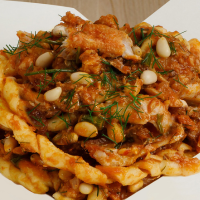
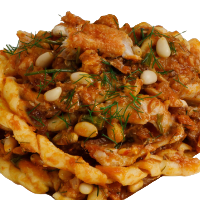
menu structure completed

diff --git a/components/Menu.jsx b/components/Menu.jsx
@@ -2,18 +2,14 @@
 
 import Image from "next/image";
 import { useState } from "react";
-import { Playwrite_AU_QLD, Permanent_Marker, Bebas_Neue } from "next/font/google";
+import { Permanent_Marker, Bebas_Neue } from "next/font/google";
+import MenuCard from "./MenuCard";
 
 const permanentMarker = Permanent_Marker({
     subsets: ["latin"],
     weight: "400"
 });
-
-const playwrite = Playwrite_AU_QLD({
-    subsets: ["latin"]
-});
-
-
+``
 const bebasNeue = Bebas_Neue({
     weight: "400",
     subsets: ['latin']
@@ -29,39 +25,41 @@ function Menu() {
     ];
 
     const formatoPastaData = [
-        { name: "Busiate", imgPath: "/fresche-busiate.jpg" },
-        { name: "Strozzapreti", imgPath: "/fresche-strozzapreti.jpg" },
-        { name: "Linguine", imgPath: "/fresche-linguine.jpg" },
-        { name: "Spaghetti Grossi", imgPath: "/fresche-spaghetti.jpg" },
+        { name: "Busiate", imgPath: "/fresche-busiate.png" },
+        { name: "Strozzapreti", imgPath: "/fresche-strozzapreti.png" },
+        { name: "Linguine", imgPath: "/fresche-linguine.png" },
+        { name: "Spaghetti Grossi", imgPath: "/fresche-spaghetti.png" },
     ]
 
     const condimentiData = [
-        { name: "Norma", ingridients: "Passata di pomodoro, Melenzane Fritte, Ricotta Salata, Basilico", price: 12, imgPath: "/norma.jpg" },
-        { name: "Trapanese", ingridients: "Passata di pomodoro, Melenzane Fritte, Ricotta Salata, Basilico", price: 10, imgPath: "/trapanese.jpg" },
-        { name: "Bronte Mare", ingridients: "Passata di pomodoro, Melenzane Fritte, Ricotta Salata, Basilico", price: 15, imgPath: "/bronte-mare.jpg" },
-        { name: "Palermitana", ingridients: "Passata di pomodoro, Melenzane Fritte, Ricotta Salata, Basilico", price: 10, imgPath: "palermitana.jpg" },
-        { name: "Nebrodi", ingridients: "Passata di pomodoro, Melenzane Fritte, Ricotta Salata, Basilico", price: 18, imgPath: "/nebrodi.jpg" },
-        { name: "Cacchio", ingridients: "Passata di pomodoro, Melenzane Fritte, Ricotta Salata, Basilico", price: 16, imgPath: "/cacchio.jpg" },
+        { name: "Norma", description: "Passata di pomodoro, Melenzane Fritte, Ricotta Salata, Basilico", price: 12, imgPath: "/norma.png" },
+        { name: "Trapanese", description: "Passata di pomodoro, Melenzane Fritte, Ricotta Salata, Basilico", price: 10, imgPath: "/trapanese.png" },
+        { name: "Bronte Mare", description: "Passata di pomodoro, Melenzane Fritte, Ricotta Salata, Basilico", price: 15, imgPath: "/bronte-mare.png" },
+        { name: "Palermitana", description: "Passata di pomodoro, Melenzane Fritte, Ricotta Salata, Basilico", price: 10, imgPath: "/palermitana.png" },
+        { name: "Nebrodi", description: "Passata di pomodoro, Melenzane Fritte, Ricotta Salata, Basilico", price: 18, imgPath: "/nebrodi.png" },
+        { name: "Cacchio", description: "Passata di pomodoro, Melenzane Fritte, Ricotta Salata, Basilico", price: 16, imgPath: "/cacchio.png" },
 
     ]
 
     const extraData = [
-        { name: "Mandorle Tostate", price: 0.70, imgPath: "/mandorle-tostate.jpg" },
-        { name: "Granella di Pistacchio", price: 0.90, imgPath: "/pistacchio.jpg" },
-        { name: "Melenzane Fritte", price: 0.70, imgPath: "/melenzane.jpg" },
-        { name: "Guanciale Croccante", price: 1.20, imgPath: "/guanciale.jpg" },
-        { name: "Burrata", price: 1.50, imgPath: "/burrata.jpg" },
-        { name: "Olio Al Tartufo", price: 1.20, imgPath: "/olio-tartufo.jpg" }
+        { name: "Mandorle Tostate", price: 0.70, imgPath: "/mandorle-tostate.png" },
+        { name: "Granella di Pistacchio", price: 0.90, imgPath: "/pistacchio.png" },
+        { name: "Melenzane Fritte", price: 0.70, imgPath: "/melenzane.png" },
+        { name: "Guanciale Croccante", price: 1.20, imgPath: "/guanciale.png" },
+        { name: "Burrata", price: 1.50, imgPath: "/burrata.png" },
+        { name: "Olio Al Tartufo", price: 1.20, imgPath: "/olio-tartufo.png" }
     ];
 
 
     const [isTipoPastaSelected, setIsTipoPastaSelected] = useState(null);
-    const [isFormatoPastaSelected, setIsFormatoPastaSelected] = useState(false);
-    const [isCondimentoPastaSelected, setIsCondimentoPastaSelected] = useState(false);
+    const [isFormatoPastaSelected, setIsFormatoPastaSelected] = useState(null);
+    const [isCondimentoPastaSelected, setIsCondimentoPastaSelected] = useState(null);
+    const [isExtraSelected, setIsExtraSelected] = useState(null);
+    const [totalCost, setTotalCost] = useState(0);
 
 
     return (
-        <div className="flex flex-col w-full max-w-full justify-center items-center text-black text-lg bg-[#FAF9F6]">
+        <div className="flex flex-col w-full max-w-full justify-center items-center text-black text-lg bg-white">
             <div className="hidden lg:flex flex-col relative w-full overflow-hidden text-white min-h-screen justify-center items-center shadow-2xl">
                 <Image
                     src={"/busiate.jpg"}
@@ -77,68 +75,50 @@ function Menu() {
             </div>
             <div className="flex flex-col text-center text-2xl w-full max-w-full items-center justify-center bg-transparent my-10 mx-auto border-0 rounded-4xl gap-10 pt-6 lg:pt-8 pb-20">
                 <h1 className={`${permanentMarker.className} uppercase text-7xl py-10 text-shadow-md`}>Componi la tua pasta</h1>
-                <h1 className="uppercase text-3xl">Scegli il tipo</h1>
-                <div className="flex flex-wrap items-center justify-evenly w-full max-w-full px-6">
-                    {tipoPastaData.map((tipoPasta, tipoPastaIndex) => {
-                        const isSelected = tipoPastaIndex === isTipoPastaSelected;
-                        return (
-                            <div key={tipoPastaIndex} className={`${isSelected ? "bg-white" : ""} cursor-pointer flex flex-col justify-center items-center gap-10 relative w-full max-w-[25%] h-full max-h-full active:opacity-80 transition-all duration-300 border-0 rounded-4xl shadow-2xs px-2 py-4`} onClick={() => {
-                                setIsTipoPastaSelected(prev => (prev === tipoPastaIndex ? null : tipoPastaIndex));
-                            }}>
-                                <h2 className="mb-2">{tipoPasta.name}</h2>
-                                {isSelected && (
-                                    <span className="absolute top-2 right-2 z-4 text-3xl">
-                                        <i className="fa-regular fa-circle-check" />
-                                    </span>
-                                )}
-                                <div className="relative flex items-center justify-center w-full h-fit max-h-fit flex-1">
-                                    <Image
-                                        src="/piatti/piatto5.png"
-                                        width={200}
-                                        height={200}
-                                        alt="piatto"
-                                        className="absolute z-2 inset-0 m-auto"
-                                    />
-                                    <Image
-                                        src={tipoPasta.imgPath}
-                                        width={150}
-                                        height={150}
-                                        alt={tipoPasta.name}
-                                        className="relative z-3 border-0 rounded-full"
-                                    />
-                                </div>
-                                <p className="mt-2">{tipoPasta.description} (+{(tipoPasta.price === 0 ? tipoPasta.price : (tipoPasta.price).toFixed(2))}€)</p>
-                            </div>
-                        )
-                    })}
-                </div>
-                <h1 className="uppercase text-3xl mt-20">Scegli il formato della tua pasta</h1>
-                <div className="flex flex-wrap items-center justify-evenly w-full max-w-full px-6 gap-4">
-                    {formatoPastaData.map((formato, formatoIndex) => {
-                        const isSelected = formatoIndex === isFormatoPastaSelected;
-                        return (
-                            <div key={formatoIndex} className={`${isSelected ? "bg-white" : ""} cursor-pointer flex flex-col justify-center items-center gap-4 relative w-full max-w-[25%] h-full max-h-full active:opacity-80 transition-all duration-300 py-15 border-0 rounded-4xl shadow-2xs`} onClick={() => {
-                                setIsFormatoPastaSelected(prev => (prev === formatoIndex ? null : formatoIndex));
-                            }}>
-                                <h2>{formato.name}</h2>
-                                {isSelected && (
-                                    <span className="absolute top-2 right-2 z-1 text-3xl">
-                                        <i className="fa-regular fa-circle-check" />
-                                    </span>
-                                )}
-                                <div className="w-[150px] h-[150px] relative">
-                                    <Image
-                                        src={formato.imgPath}
-                                        width={150}
-                                        height={150}
-                                        alt={formato.name}
-                                        className="border-0 rounded-full"
-                                    />
-                                </div>
-                            </div>
-                        )
-                    })}
-                </div>
+                <MenuCard
+                    title={"Scegli il tipo"}
+                    state={isTipoPastaSelected}
+                    setState={setIsTipoPastaSelected}
+                    data={tipoPastaData}
+                    widthImg1={200}
+                    heightImg1={200}
+                    widthImg2={180}
+                    heightImg2={180}
+                    imgPiatto={"piatto5"}
+                />
+                <MenuCard 
+                    title={"Scegli il formato"}
+                    state={isFormatoPastaSelected}
+                    setState={setIsFormatoPastaSelected}
+                    data={formatoPastaData}
+                    widthImg1={200}
+                    heightImg1={200}
+                    widthImg2={180}
+                    heightImg2={180}
+                    imgPiatto={"piatto4"}
+                />
+                <MenuCard 
+                    title={"Scegli il condimento"}
+                    state={isCondimentoPastaSelected}
+                    setState={setIsCondimentoPastaSelected}
+                    data={condimentiData}
+                    widthImg1={230}
+                    heightImg1={230}
+                    widthImg2={120}
+                    heightImg2={120}
+                    imgPiatto={"piatto6"}
+                />
+                <MenuCard 
+                    title={"Scegli gli extra"}
+                    state={isExtraSelected}
+                    setState={setIsExtraSelected}
+                    data={extraData}
+                    widthImg1={200}
+                    heightImg1={200}
+                    widthImg2={180}
+                    heightImg2={180}
+                    imgPiatto={"piatto4"}
+                />
             </div>
         </div>
     );

diff --git a/components/MenuCard.jsx b/components/MenuCard.jsx
@@ -1,0 +1,48 @@
+import Image from "next/image";
+
+function MenuCard(props) {
+    
+    const { title, state, setState, data, widthImg1, heightImg1, widthImg2, heightImg2, imgPiatto } = props;
+
+    return (
+        <div className="flex flex-col w-full justify-center items-center gap-5 py-4">
+            <h1 className="uppercase text-3xl">{title}</h1>
+            <div className="flex flex-wrap items-center justify-evenly w-full max-w-full px-6 gap-5">
+                {data.map((element, elementIndex) => {
+                    const isSelected = elementIndex === state;
+                    return (
+                        <div key={elementIndex} className={`${isSelected ? "bg-[#da291c] text-white" : ""} cursor-pointer flex flex-col justify-center items-center gap-10 relative w-full max-w-[25%] h-[25rem] active:opacity-80 transition-all duration-300 py-4 border-0 rounded-4xl shadow-2xs`} onClick={() => {
+                            setState(prev => (prev === elementIndex ? null : elementIndex));
+                        }}>
+                            <h2 className="mb-2">{element.name}</h2>
+                            {isSelected && (
+                                <span className="absolute top-2 right-2 z-4 text-3xl">
+                                    <i className="fa-regular fa-circle-check" />
+                                </span>
+                            )}
+                            <div className="relative flex flex-1 items-center justify-center w-full">
+                                <Image
+                                    src={`/piatti/${imgPiatto}.png`}
+                                    width={widthImg1}
+                                    height={heightImg1}
+                                    alt="piatto"
+                                    className="absolute z-2 inset-0 m-auto"
+                                />
+                                <Image
+                                    src={element.imgPath}
+                                    width={widthImg2}
+                                    height={heightImg2}
+                                    alt={element.name}
+                                    className="relative z-3 border-0 rounded-full"
+                                />
+                            </div>
+                            <p className="mt-2">{(element.description) ? element.description : ""} {element.price === undefined ? "GRATIS" : (element.price === 0 ? `(+0€)` : `(+${element.price.toFixed(2)}€)`)}</p>
+                        </div>
+                    )
+                })}
+            </div>
+        </div>
+    );
+}
+
+export default MenuCard;
